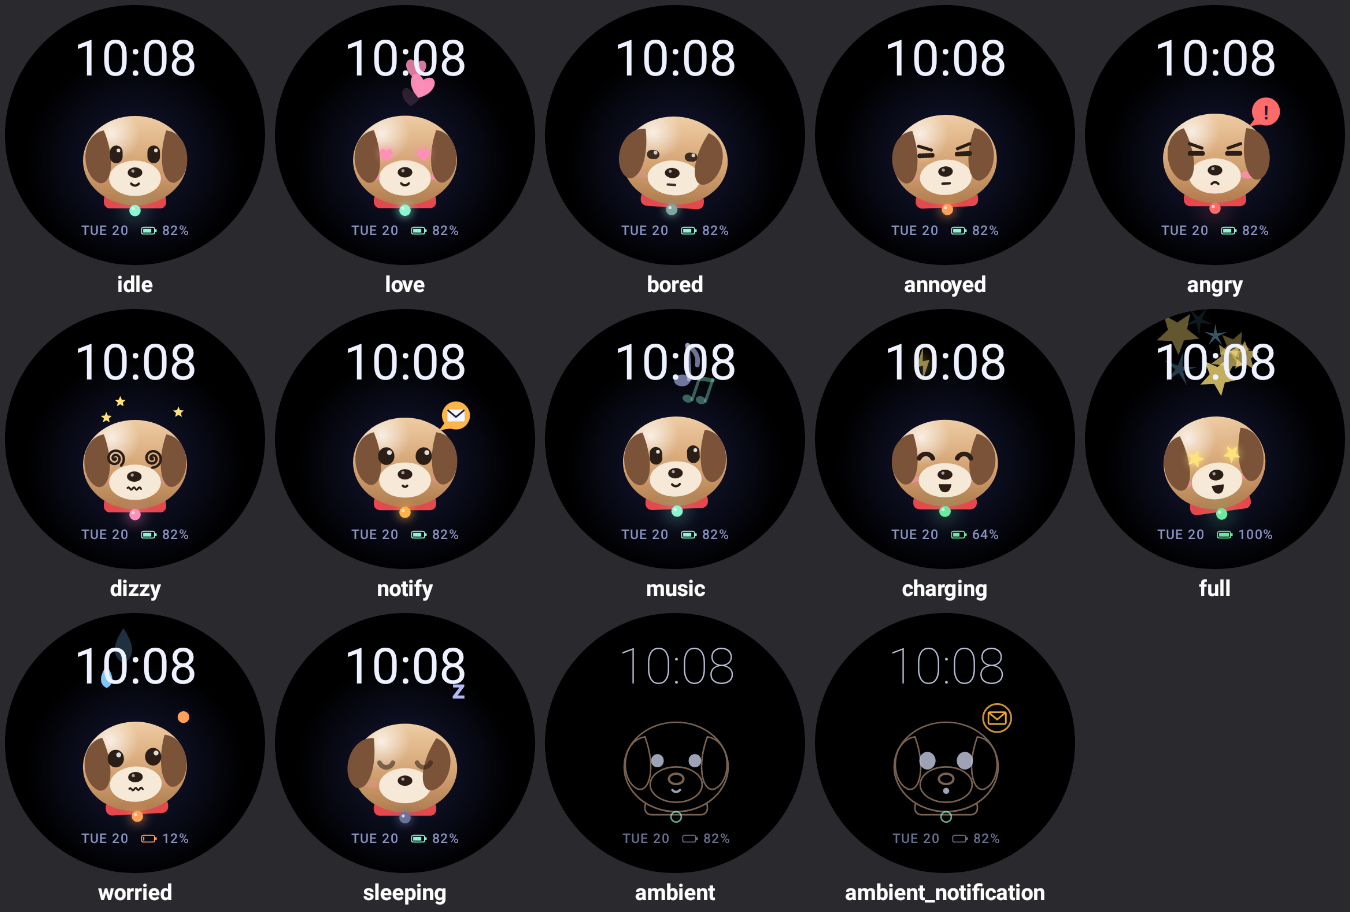
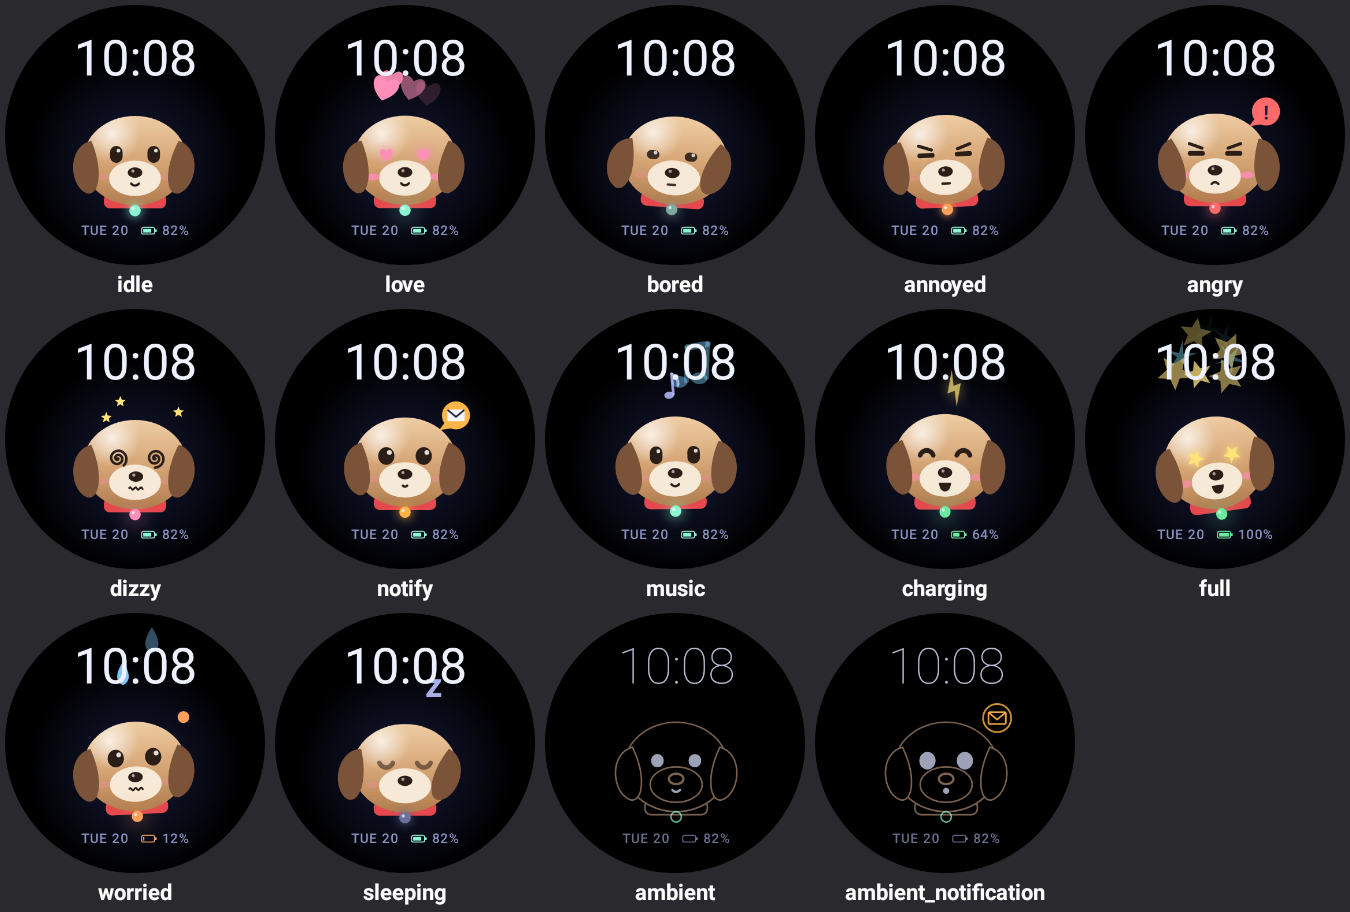
Rename app to Cute Companion; dog ears hang from the sides

diff --git a/avatar/src/main/java/com/jarvis/avatar/JarvisRenderer.kt b/avatar/src/main/java/com/jarvis/avatar/JarvisRenderer.kt
@@ -254,8 +254,9 @@ class JarvisRenderer {
         // Floppy ears, wiggling with the antenna spring.
         for (s in SIDES) {
             c.save()
-            c.translate(s * r * 0.6f, -r * 0.62f)
-            c.rotate((s * 0.12f + clamp(p.antenna * 0.6f, -0.22f, 0.22f)) * RAD2DEG)
+            // Hung from the sides of the head, tipped a little outward.
+            c.translate(s * r * 0.84f, -r * 0.42f)
+            c.rotate((s * 0.22f + clamp(p.antenna * 0.6f, -0.22f, 0.22f)) * RAD2DEG)
             path.reset()
             path.moveTo(0f, 0f)
             path.cubicTo(s * r * 0.48f, r * 0.02f, s * r * 0.58f, r * 0.78f, s * r * 0.26f, r * 0.98f)

diff --git a/README.md b/README.md
@@ -1,4 +1,4 @@
-# Jarvis watch face (Wear OS)
+# Cute Companion — Jarvis, Biscuit & Boo (Wear OS watch face)
 
 The Jarvis avatar from Jarvis2.0 living on the watch as an animated watch face.
 Avatar only: Gemini (already on the watch) stays the assistant. Personal use, sideloaded.
